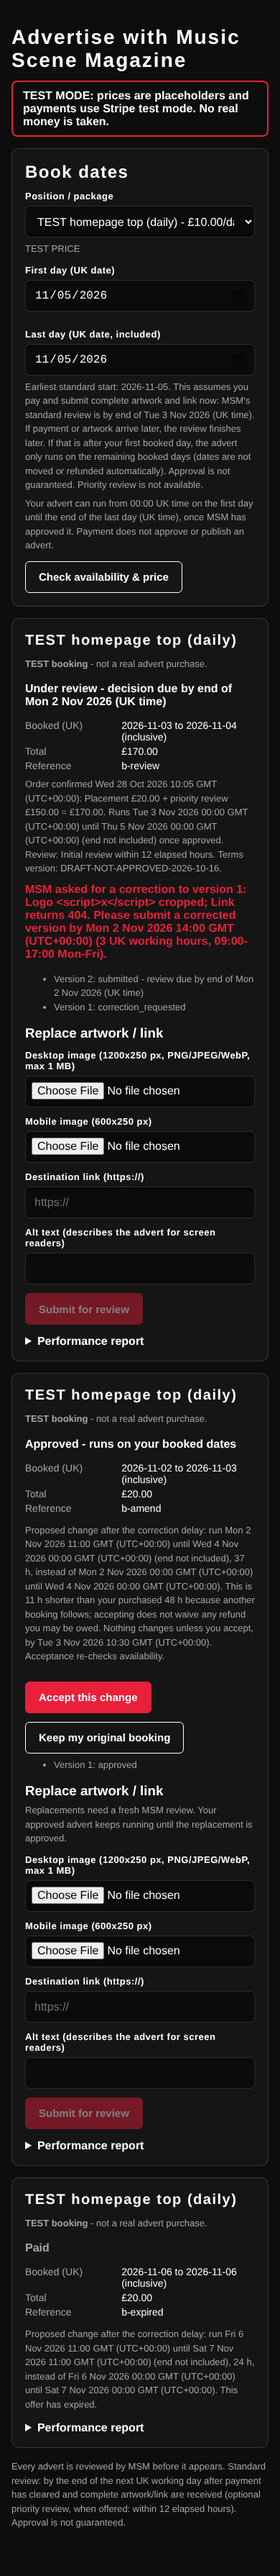
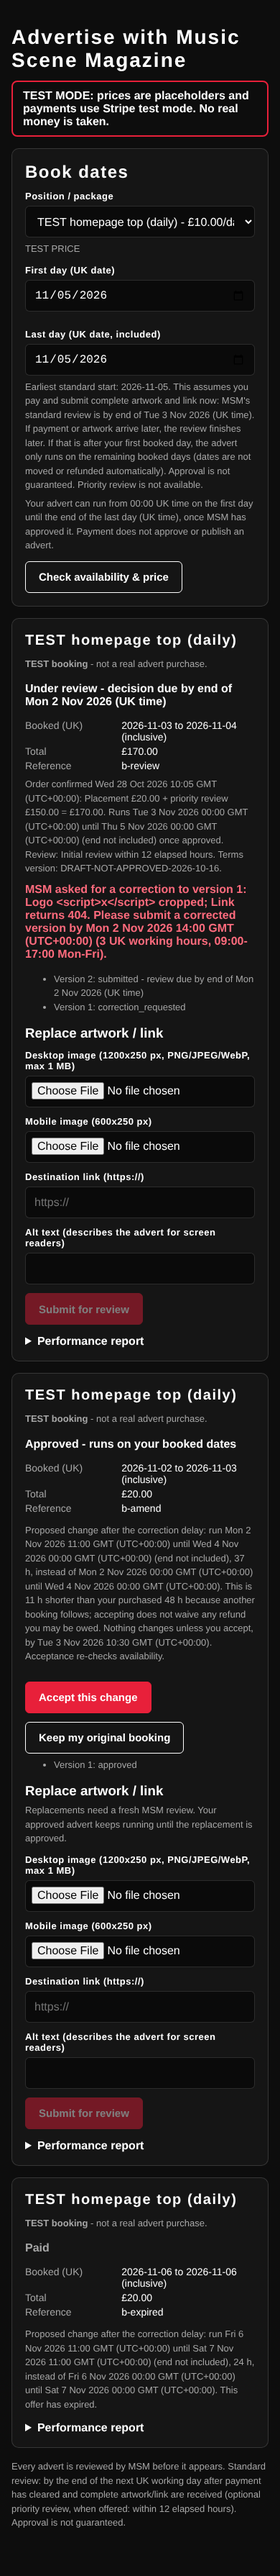
Ads review follow-up: provider body timeout, NULL dispatch-hash guard, harness fidelity + legibility sentinel
- resendClient: one deadline/AbortController now covers fetch AND reading
  the response body (headers-then-stalled body could hang the worker).
  Regression: stalled body after 200 and after 500, malformed and rejected
  bodies (the stall tests fail on the previous adapter).
- Migration 20261017120000 (not applied anywhere): ad_notify_begin_dispatch
  rejects NULL content hash / attempt explicitly (NULL !~ regex bypassed
  the check); 60_ suite asserts it (fails before the migration).
- Browser harness renders inside the app's real tab baseline (bg/text/font,
  kept equal to App.jsx by a static test); computed-contrast + font
  sentinel; regenerated desktop/mobile screenshots. Fixed: portal alert
  text contrast (4.09:1 -> lighter red) and a refund-gate pill overflowing
  the admin mobile page. Brand-red buttons/admin components between 3:1
  and 4.5:1 listed as an accessibility follow-up.

Claude-Session: https://claude.ai/code/session_01A1z5A1mCc63DhkbCziwRSt

Changed region(s): [[0.0923, 0.3411, 0.8615, 0.3721]]

diff --git a/api/_ads/resendClient.js b/api/_ads/resendClient.js
@@ -17,17 +17,26 @@ export function classifyResendFailure(status, body) {
 export const RESEND_TIMEOUT_MS = 10000;
 
 export async function sendViaResend({ apiKey, from, to, subject, html, text, idempotencyKey }, fetchImpl = globalThis.fetch, { timeoutMs = RESEND_TIMEOUT_MS } = {}) {
-  let r;
+  // ONE deadline and ONE AbortController cover the request AND reading/parsing
+  // the response body: a provider that sends headers and then stalls the body
+  // cannot hold the worker either.
   const ctl = new AbortController();
   let timer;
   const timeout = new Promise((_, reject) => { timer = setTimeout(() => { ctl.abort(); reject(new Error(`timeout after ${timeoutMs} ms`)); }, timeoutMs); });
-  try {
-    r = await Promise.race([fetchImpl(RESEND_ENDPOINT, {
+  const exchange = async () => {
+    const res = await fetchImpl(RESEND_ENDPOINT, {
       method: "POST",
       headers: { Authorization: `Bearer ${apiKey}`, "Content-Type": "application/json", "Idempotency-Key": idempotencyKey },
       body: JSON.stringify({ from, to: [to], subject, html, text }),
       signal: ctl.signal,
-    }), timeout]);
+    });
+    let parsed = null;
+    try { parsed = await res.json(); } catch { parsed = null; }        // malformed / rejected body
+    return { res, parsed };
+  };
+  let r, body;
+  try {
+    ({ res: r, parsed: body } = await Promise.race([exchange(), timeout]));
   } catch (err) {
     // Outcome unknown (the provider may have accepted it): retried under the SAME
     // idempotency key only inside the dispatch window, else reconciliation.
@@ -35,8 +44,6 @@ export async function sendViaResend({ apiKey, from, to, subject, html, text, ide
   } finally {
     clearTimeout(timer);
   }
-  let body = null;
-  try { body = await r.json(); } catch { body = null; }
   if (r.ok && typeof body?.id === "string" && body.id.length >= 6) return { outcome: "accepted", id: body.id };
   if (r.ok) return { outcome: "retryable_error", error: "provider accepted without an id" };
   // Error text from the provider only (name/message) -- never request headers or the key.

diff --git a/api/_ads/notifications.test.js b/api/_ads/notifications.test.js
@@ -305,3 +305,25 @@ describe("amendment emails", () => {
     expect([...kinds].sort()).toEqual([...NOTIFICATION_KINDS].sort());
   });
 });
+
+describe("Resend adapter: one deadline covers headers AND body (MOCK_fetch)", () => {
+  const args = { apiKey: "re_MOCK", from: "f@example.test", to: "t@example.test", subject: "s", html: "h", text: "h", idempotencyKey: "k-12345678" };
+  const within = (p, ms) => Promise.race([p, new Promise((r) => setTimeout(() => r("BODY_TIMEOUT_NOT_ENFORCED"), ms))]);
+  it("headers arrive, body stalls -> times out (retryable, unknown outcome) and aborts the request", async () => {
+    let signal;
+    const stalled = vi.fn(async (_u, init) => { signal = init.signal; return { ok: true, status: 200, json: () => new Promise(() => {}) }; });
+    const r = await within(sendViaResend(args, stalled, { timeoutMs: 10 }), 100);
+    expect(r).toEqual({ outcome: "retryable_error", error: "network: timeout after 10 ms" });
+    expect(signal.aborted).toBe(true);
+  });
+  it("error status with a stalled body also times out", async () => {
+    const r = await within(sendViaResend(args, async () => ({ ok: false, status: 500, json: () => new Promise(() => {}) }), { timeoutMs: 10 }), 100);
+    expect(r).toEqual({ outcome: "retryable_error", error: "network: timeout after 10 ms" });
+  });
+  it("malformed or rejected body is handled without hanging", async () => {
+    const bad = await within(sendViaResend(args, async () => ({ ok: true, status: 200, json: async () => { throw new SyntaxError("Unexpected token <"); } }), { timeoutMs: 50 }), 200);
+    expect(bad).toEqual({ outcome: "retryable_error", error: "provider accepted without an id" });   // accepted? unknown -> never treated as sent
+    const rejected = await within(sendViaResend(args, async () => ({ ok: false, status: 422, json: () => Promise.reject(new Error("stream error")) }), { timeoutMs: 50 }), 200);
+    expect(rejected).toEqual({ outcome: "permanent_error", error: "HTTP 422" });
+  });
+});

diff --git a/src/components/ads/AdvertiserPortal.jsx b/src/components/ads/AdvertiserPortal.jsx
@@ -21,7 +21,8 @@ import { destinationUrlProblem, altTextProblem, creativeFileProblem } from "../.
 import { addDays, formatDeadline, londonDayStart } from "../../ads/londonTime.js";
 import { REPORT_LIMITATIONS } from "../../ads/reportLimitations.js";
 
-const K = { bg: "#0d0d0d", panel: "#151515", field: "#0a0a0a", text: "#ffffff", muted: "#a6a6a6", line: "rgba(255,255,255,0.14)", red: "#e8203a" };
+// alert: lighter MSM red for TEXT on the dark panels (brand #e8203a text is 4.1:1, under WCAG AA 4.5:1).
+const K = { bg: "#0d0d0d", panel: "#151515", field: "#0a0a0a", text: "#ffffff", muted: "#a6a6a6", line: "rgba(255,255,255,0.14)", red: "#e8203a", alert: "#ff6b7d" };
 const TONE = { good: K.text, warn: K.text, bad: K.red, neutral: K.muted };
 
 const css = `
@@ -39,7 +40,7 @@ const css = `
 .msm-adp :focus-visible { outline:3px solid ${K.red}; outline-offset:2px; }
 .msm-adp__help { color:${K.muted}; font-size:13px; line-height:1.5; margin:6px 0 0; }
 .msm-adp__test { border:2px solid ${K.red}; color:${K.text}; padding:10px 14px; border-radius:8px; font-weight:700; margin:12px 0; }
-.msm-adp__err { color:${K.red}; font-weight:700; margin-top:10px; }
+.msm-adp__err { color:${K.alert}; font-weight:700; margin-top:10px; }
 .msm-adp__row { display:grid; grid-template-columns:1fr 1fr; gap:12px; }
 .msm-adp dl { display:grid; grid-template-columns:auto 1fr; gap:4px 14px; margin:8px 0; font-size:14px; }
 .msm-adp dt { color:${K.muted}; }

diff --git a/tests/browser/harness.jsx b/tests/browser/harness.jsx
@@ -6,8 +6,17 @@ import AdvertiserPortal from "../../src/components/ads/AdvertiserPortal.jsx";
 import AdminAds from "../../src/components/admin/AdminAds.jsx";
 import { USERS } from "./fixtures.js";
 
+// Same text/colour/font baseline the real app wraps every tab in
+// (App.jsx: background C.bg, color C.white, fontFamily F.body). Values are
+// duplicated -- importing App.jsx would pull the live app -- and kept equal
+// to App.jsx by tests/browserHarnessTheme.test.js. Web fonts are blocked in the
+// local run (no network), so the stack falls back to the system sans-serif.
+export const APP_BASELINE = { background: "#0d0d0d", color: "#fff", fontFamily: "'Barlow',sans-serif" };
+
 const q = new URLSearchParams(location.search);
 const user = USERS[q.get("user") || "owner"];
 ReactDOM.createRoot(document.getElementById("root")).render(
-  q.get("screen") === "admin" ? <AdminAds /> : <AdvertiserPortal user={{ id: user.id }} logo={null} />,
+  <div style={{ minHeight: "100vh", ...APP_BASELINE }}>
+    {q.get("screen") === "admin" ? <AdminAds /> : <AdvertiserPortal user={{ id: user.id }} logo={null} />}
+  </div>,
 );

diff --git a/tests/browserHarnessTheme.test.js b/tests/browserHarnessTheme.test.js
@@ -1,0 +1,19 @@
+// Keeps the local browser harness baseline identical to the real app's tab
+// wrapper (App.jsx C.bg / C.white / F.body) without importing App.jsx.
+import { describe, it, expect } from "vitest";
+import fs from "node:fs";
+import path from "node:path";
+
+const read = (p) => fs.readFileSync(path.resolve(__dirname, "..", p), "utf8");
+describe("browser harness matches the app's text baseline", () => {
+  it("background, text colour and body font equal App.jsx", () => {
+    const app = read("src/App.jsx");
+    const bg = /export const C = \{[\s\S]*?\bbg:"([^"]+)"/.exec(app)[1];
+    const white = /export const C = \{[\s\S]*?\bwhite:"([^"]+)"/.exec(app)[1];
+    const body = /export const F = \{[^}]*\bbody:"([^"]+)"/.exec(app)[1];
+    expect(app).toMatch(/background:C\.bg, color:C\.white, fontFamily:F\.body/);   // the wrapper the harness mirrors
+    const h = read("tests/browser/harness.jsx");
+    const base = /APP_BASELINE = \{ background: "([^"]+)", color: "([^"]+)", fontFamily: "([^"]+)" \}/.exec(h);
+    expect([base[1], base[2], base[3]]).toEqual([bg, white, body]);
+  });
+});

diff --git a/src/components/admin/AdminAds.jsx b/src/components/admin/AdminAds.jsx
@@ -161,7 +161,8 @@ function RefundRow({ a, onDone, setToast }) {
     <AdminCard accent={ACCENT}>
       <div style={{ display: "flex", flexWrap: "wrap", gap: 8, alignItems: "center" }}>
         <strong>{a.kind} - {formatPence(a.total_pence)}</strong>
-        <Pill color={a.status === "manual_gate" ? ACCENT : undefined}>{a.status}{a.gates?.length ? `: ${a.gates.join(", ")}` : ""}</Pill>
+        <Pill color={a.status === "manual_gate" ? ACCENT : undefined}>{a.status}</Pill>
+        {a.gates?.length > 0 && <span style={{ fontSize: 12, overflowWrap: "anywhere" }}>gates: {a.gates.join(", ")}</span>}
         <span style={{ color: TEXT_MUTED, fontSize: 12 }}>booking {a.booking_id} - proposed {at(a.proposed_at)}{a.target_pay_by ? ` - pay by ${at(a.target_pay_by)}` : ""}</span>
       </div>
       <ul style={{ fontSize: 12 }}>{(a.ad_refund_lines || []).map((l, i) => (

diff --git a/docs/ads/launch-checklist.md b/docs/ads/launch-checklist.md
@@ -28,13 +28,18 @@
 | Browser: advertiser/admin screens | `npm run test:browser` B: real components, synthetic fixtures, fake client emulating RLS/ownership; desktop and mobile screenshots in `docs/ads/verification/local-browser/` | **Not verified** with a real staging login |
 | WordPress adapter | `npm run test:wp` (stubbed WP) | Plugin not installed anywhere |
 
+**Harness fidelity and legibility.**
+- The harness wraps the screens in the app's own tab baseline (`#0d0d0d` background, `#fff` text, `'Barlow',sans-serif`). `tests/browserHarnessTheme.test.js` keeps these values equal to `App.jsx`.
+- Web fonts are blocked in the local run, so the system sans-serif is used.
+- A computed-contrast sentinel fails any visible text under 3:1 or in a serif font. It lists, rather than fails, elements between 3:1 and WCAG AA 4.5:1. Current list, an **accessibility follow-up**: brand-red primary buttons (white on `#e8203a`, 4.47:1) and existing shared admin components (4.12–4.35:1).
+
 **Browser tooling.** `playwright` is pinned as a devDependency at 1.56.1 in `package.json` and the lockfile.
 - Elsewhere: run `npm ci`, then `npx playwright install chromium` once, then `npm run test:browser`.
 - The run builds locally, serves on 127.0.0.1 only, and **aborts every non-loopback request**. Supabase calls are answered locally and recorded.
 
 ## 3. Staged migration sequence (STAGING ONLY, after review, in this order)
 
-Already applied on staging: `20261015120000_ads_platform_phase1.sql`. Apply the rest **unchanged**, one file at a time, with `psql -v ON_ERROR_STOP=1 -1 -f <file>` or one SQL-editor run per file, then run `supabase/staging/03_postflight_readonly.sql`:
+Already applied on staging: `20261015120000_ads_platform_phase1.sql`. Apply the remaining eight **unchanged**, one file at a time, with `psql -v ON_ERROR_STOP=1 -1 -f <file>` or one SQL-editor run per file, then run `supabase/staging/03_postflight_readonly.sql`:
 
 1. `20261016090000_ads_standard_earliest_start.sql`
 2. `20261016120000_ads_review_corrections_priority.sql`
@@ -43,6 +48,7 @@ Already applied on staging: `20261015120000_ads_platform_phase1.sql`. Apply the 
 5. `20261016210000_ads_notification_outbox.sql`
 6. `20261016230000_ads_booking_amendments.sql`
 7. `20261017090000_ads_outbox_dispatch_amendment_notices.sql`
+8. `20261017120000_ads_begin_dispatch_null_guard.sql`
 
 Every switch stays OFF after these: `ads_*_enabled`, `ads_email_enabled`, `ads_amendments_enabled`, `ads_hourly_packages_enabled`. `amendment_offer_minutes` stays unset. The rollback is `supabase/rollbacks/20261015120000_ads_platform_phase1_down.sql`: guarded, full, all ads objects. Production is a separate, later decision after staging passes §5.
 
@@ -59,7 +65,7 @@ Every switch stays OFF after these: `ads_*_enabled`, `ads_email_enabled`, `ads_a
   - First-dispatch identity (recipient plus content SHA-256) is stored before any provider call. Payload and recipient are frozen.
   - At most 6 attempts, including expired leases. No provider call later than 23 hours after the first dispatch.
   - Anything that may have been sent and can no longer be retried safely goes to `needs_reconciliation`. It is never re-sent blindly; MSM confirms sent or not sent, and only "not sent" re-queues it under a new key generation.
-  - Provider calls have a 10-second timeout.
+  - Provider calls have a 10-second timeout covering the request and reading the response body (a provider that sends headers then stalls the body is cut off and treated as an unknown outcome).
 - **Amendment notifications** to the booking owner: proposed, accepted, rejected, withdrawn, expired. They carry exact persisted intervals and are deduplicated durably. Email delivery never changes the offer or its configured expiry. `ad_expire_amendments()` is called by the worker and by an admin button.
 - **Review fixes:**
   - The outcome email now shows the amended run.

diff --git a/docs/ads/agreed-terms-implementation.md b/docs/ads/agreed-terms-implementation.md
@@ -151,6 +151,7 @@ Apply **in filename order**, only after review, **on staging only**:
 5. `supabase/migrations/20261016210000_ads_notification_outbox.sql` (§1.8)
 6. `supabase/migrations/20261016230000_ads_booking_amendments.sql` (§1.9)
 7. `supabase/migrations/20261017090000_ads_outbox_dispatch_amendment_notices.sql` (§1.10)
+8. `supabase/migrations/20261017120000_ads_begin_dispatch_null_guard.sql` (NULL hash/attempt rejected in `ad_notify_begin_dispatch`)
 
 Each file is a plain forward migration on top of the previous one. They are not wrapped in a transaction, so run each with `psql -v ON_ERROR_STOP=1 -1 -f <file>`, or through the Supabase SQL editor in one run. Then run `supabase/staging/03_postflight_readonly.sql`. The local proof is `npm run test:ads-staging`, which applies all four ads migrations on a bootstrapped empty platform DB and runs every suite there.
 
